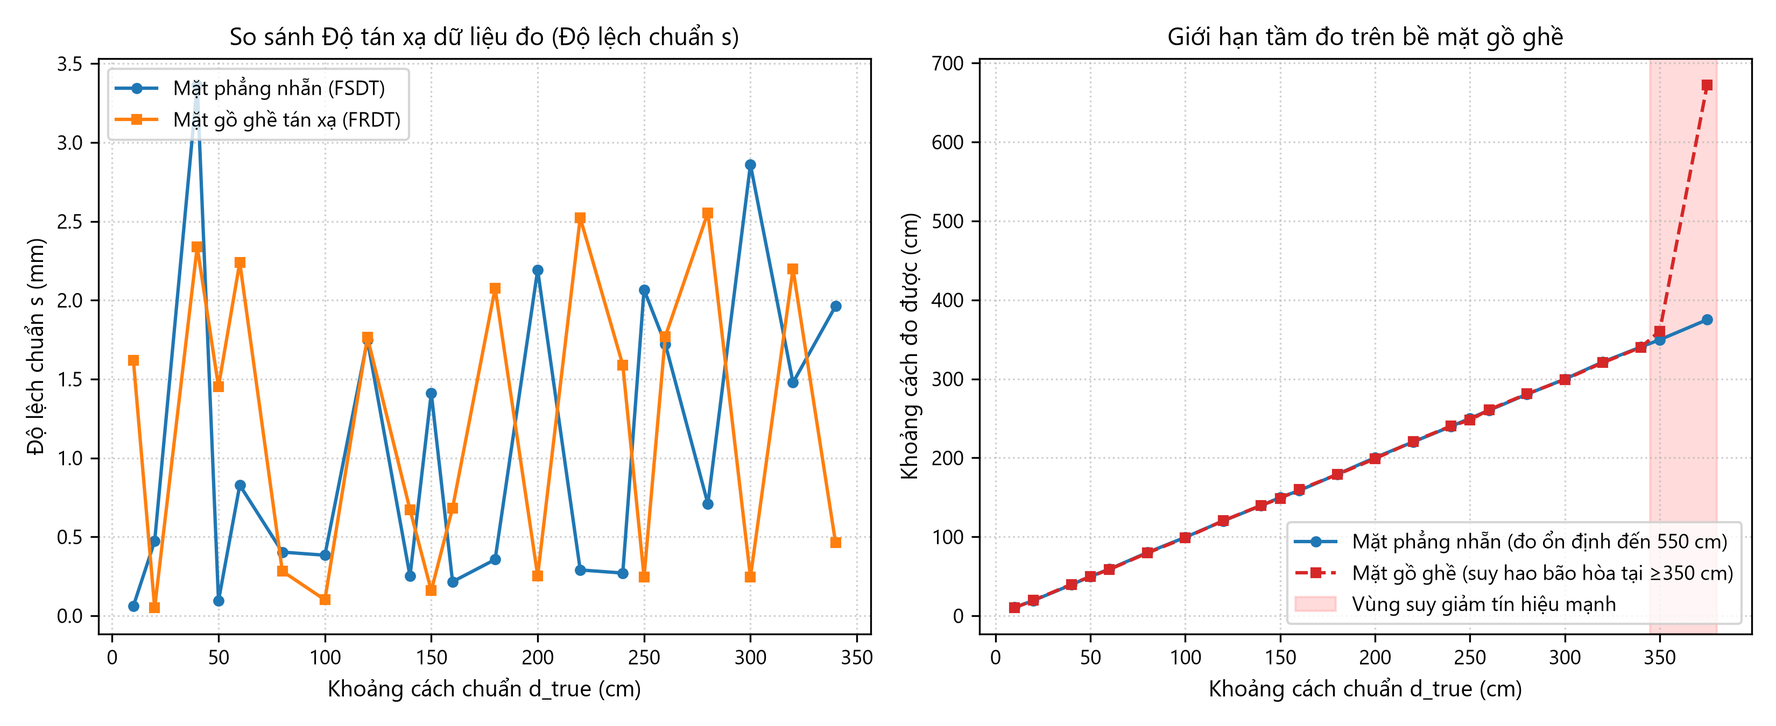
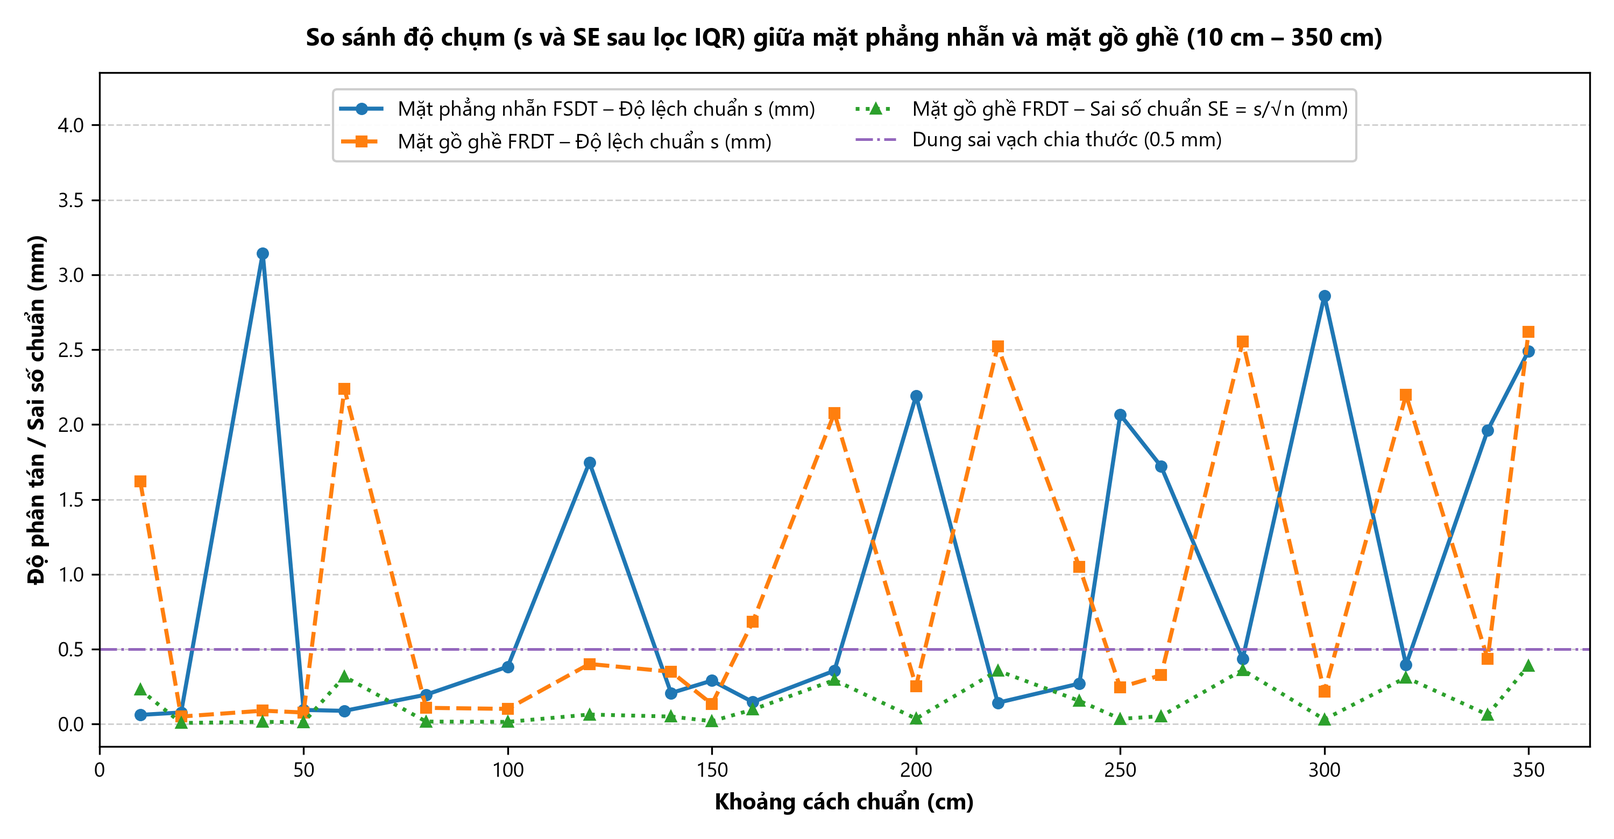
Hoàn thiện Mục 3.6 (ảnh hưởng bề mặt phản xạ FSDT vs FRDT) và đồ thị đơn 3.7a, 3.7b

diff --git a/tao_do_thi_chuong_3.py b/tao_do_thi_chuong_3.py
@@ -312,46 +312,87 @@ plt.savefig(GRAPH_DIR / "hinh_3_6_vong_tre_hysteresis.png", dpi=300)
 plt.close()
 
 # ==========================================================
-# 7. HÌNH 3.7: Ảnh hưởng của Bề mặt phản xạ (Nhẵn vs Gồ ghề)
+# 7. HÌNH 3.7a & 3.7b (Mục 3.6): Ảnh hưởng của Bề mặt phản xạ (Nhẵn FSDT vs Gồ ghề FRDT)
+#    Đồ thị đơn 1 khung hình (dpi=300), trích xuất trực tiếp từ thong_ke_chuong_3.csv
 # ==========================================================
-print("Tạo Hình 3.7...")
-common_r = sorted(list(set([float(c.replace('cm', '')) for c in frdt.keys()]).intersection(set([float(c.replace('cm', '')) for c in fsdt.keys()]))))
-s_smooth = [statistics.stdev(fsdt[f"{int(d):03d}cm"]) * 10 for d in common_r] # mm
-s_rough = [statistics.stdev(frdt[f"{int(d):03d}cm"]) * 10 for d in common_r] # mm
+print("Tạo Hình 3.7a & 3.7b (Mục 3.6 - Bề mặt phản xạ từ thong_ke_chuong_3.csv)...")
+fsdt_map = {float(r['cu_ly_dat_cm']): r for r in rows_stat if r['ten_file'].startswith('FSDT_')}
+frdt_map = {float(r['cu_ly_dat_cm']): r for r in rows_stat if r['ten_file'].startswith('FRDT_')}
 
-fig, (ax1, ax2) = plt.subplots(1, 2, figsize=(11, 4.5), dpi=300)
+# --- Hình 3.7a: So sánh độ lệch chuẩn s và SE sau lọc IQR trên 22 mốc chung (10 cm – 350 cm) ---
+common_surf_x = sorted(set(fsdt_map.keys()).intersection(frdt_map.keys()))
+s_fsdt_surf = [float(fsdt_map[x]['std_sach_mm']) for x in common_surf_x]
+s_frdt_surf = [float(frdt_map[x]['std_sach_mm']) for x in common_surf_x]
+se_frdt_surf = [float(frdt_map[x]['se_sach_mm']) for x in common_surf_x]
 
-# Tán xạ làm tăng s (khảo sát đến 340cm để thấy rõ tỉ số chênh lệch)
-common_r_sub = [d for d in common_r if d <= 340]
-s_smooth_sub = [statistics.stdev(fsdt[f"{int(d):03d}cm"]) * 10 for d in common_r_sub]
-s_rough_sub = [statistics.stdev(frdt[f"{int(d):03d}cm"]) * 10 for d in common_r_sub]
+fig, ax = plt.subplots(figsize=(10, 5.2), dpi=300)
+ax.plot(common_surf_x, s_fsdt_surf, color='#1f77b4', linestyle='-', linewidth=1.8, marker='o', markersize=4.5,
+        label='Mặt phẳng nhẵn FSDT – Độ lệch chuẩn s (mm)')
+ax.plot(common_surf_x, s_frdt_surf, color='#ff7f0e', linestyle='--', linewidth=1.8, marker='s', markersize=4.5,
+        label='Mặt gồ ghề FRDT – Độ lệch chuẩn s (mm)')
+ax.plot(common_surf_x, se_frdt_surf, color='#2ca02c', linestyle=':', linewidth=1.7, marker='^', markersize=4.2,
+        label='Mặt gồ ghề FRDT – Sai số chuẩn SE = s/√n (mm)')
+ax.axhline(0.5, color='#9467bd', linestyle='-.', linewidth=1.2,
+           label='Dung sai vạch chia thước (0.5 mm)')
 
-ax1.plot(common_r_sub, s_smooth_sub, 'o-', color='#1f77b4', label='Mặt phẳng nhẵn (FSDT)', linewidth=1.5, markersize=4)
-ax1.plot(common_r_sub, s_rough_sub, 's-', color='#ff7f0e', label='Mặt gồ ghề tán xạ (FRDT)', linewidth=1.5, markersize=4)
-ax1.set_title('So sánh Độ tán xạ dữ liệu đo (Độ lệch chuẩn s)')
-ax1.set_xlabel('Khoảng cách chuẩn (cm)')
-ax1.set_ylabel('Độ lệch chuẩn s (mm)')
-ax1.grid(True, linestyle=':', alpha=0.6)
-ax1.legend(loc='upper left')
-
-# Giới hạn cự ly do suy hao
-all_frdt_d = sorted([float(c.replace('cm', '')) for c in frdt.keys()])
-r_means = [statistics.mean(frdt[f"{int(d):03d}cm"]) for d in all_frdt_d]
-f_sub_means = [statistics.mean(fsdt[f"{int(d):03d}cm"]) if f"{int(d):03d}cm" in fsdt else d for d in all_frdt_d]
-
-ax2.plot(all_frdt_d, f_sub_means, 'o-', color='#1f77b4', label='Mặt phẳng nhẵn (đo ổn định đến 550 cm)', linewidth=1.5, markersize=4)
-ax2.plot(all_frdt_d, r_means, 's--', color='#d62728', label='Mặt gồ ghề (suy hao bão hòa tại ≥350 cm)', linewidth=1.5, markersize=4)
-ax2.axvspan(345, 380, color='#ff9999', alpha=0.35, label='Vùng suy giảm tín hiệu mạnh')
-ax2.set_title('Giới hạn tầm đo trên bề mặt gồ ghề')
-ax2.set_xlabel('Khoảng cách chuẩn (cm)')
-ax2.set_ylabel('Khoảng cách đo được (cm)')
-ax2.grid(True, linestyle=':', alpha=0.6)
-ax2.legend(loc='lower right')
+ax.set_title("So sánh độ chụm (s và SE sau lọc IQR) giữa mặt phẳng nhẵn và mặt gồ ghề (10 cm – 350 cm)", fontweight='bold', pad=12)
+ax.set_xlabel("Khoảng cách chuẩn (cm)", fontweight='bold')
+ax.set_ylabel("Độ phân tán / Sai số chuẩn (mm)", fontweight='bold')
+ax.set_xlim(0, 365)
+ax.set_ylim(-0.15, 4.35)
+ax.set_yticks([0, 0.5, 1.0, 1.5, 2.0, 2.5, 3.0, 3.5, 4.0])
+ax.grid(axis='y', which='major', linestyle='--', linewidth=0.7, alpha=0.6)
+ax.grid(axis='x', visible=False)
+ax.legend(loc='upper center', bbox_to_anchor=(0.5, 0.99), ncol=2, framealpha=0.95)
 
 plt.tight_layout()
-plt.savefig(GRAPH_DIR / "hinh_3_7_anh_huong_be_mat.png", dpi=300)
-plt.close()
+h3_7a_p1 = GRAPH_DIR / "hinh_3_7a_do_chum_be_mat.png"
+h3_7a_p2 = GRAPH_DIR / "chuong_3" / "hinh_3_7a_do_chum_be_mat.png"
+h3_7_legacy = GRAPH_DIR / "hinh_3_7_anh_huong_be_mat.png"
+fig.savefig(h3_7a_p1, dpi=300)
+fig.savefig(h3_7a_p2, dpi=300)
+fig.savefig(h3_7_legacy, dpi=300)
+plt.close(fig)
+print(f"Đã xuất đồ thị Hình 3.7a tại: {h3_7a_p1} và {h3_7a_p2}")
 
+# --- Hình 3.7b: So sánh đặc tính khoảng cách trung bình và giới hạn tầm đo (10 cm – 600 cm) ---
+x_fsdt_range = sorted([x for x in fsdt_map.keys() if x >= 10.0])
+y_fsdt_sach = [float(fsdt_map[x]['mean_sach_cm']) for x in x_fsdt_range]
+
+x_frdt_range = sorted(frdt_map.keys())
+y_frdt_tho = [float(frdt_map[x]['mean_tho_cm']) for x in x_frdt_range]
+y_frdt_sach = [float(frdt_map[x]['mean_sach_cm']) for x in x_frdt_range]
+
+fig, ax = plt.subplots(figsize=(10, 5.2), dpi=300)
+ax.plot([0, 600], [0, 600], color='#7f7f7f', linestyle='--', linewidth=1.1,
+        label='Đường chuẩn lý tưởng (y = x)')
+ax.plot(x_fsdt_range, y_fsdt_sach, color='#1f77b4', linestyle='-', linewidth=1.8, marker='o', markersize=4.5,
+        label='Mặt phẳng nhẵn FSDT (sau lọc IQR, ổn định đến 550 cm)')
+ax.plot(x_frdt_range, y_frdt_tho, color='#ff7f0e', linestyle=':', linewidth=1.5, marker='^', markersize=4.2,
+        label='Mặt gồ ghề FRDT (trước lọc IQR, chớm mất xung tại 350 cm)')
+ax.plot(x_frdt_range, y_frdt_sach, color='#d62728', linestyle='--', linewidth=1.8, marker='s', markersize=4.5,
+        label='Mặt gồ ghề FRDT (sau lọc IQR, tràn bão hòa tại 375 cm)')
+ax.axhline(824.6, color='#9467bd', linestyle='-.', linewidth=1.1,
+           label='Ngưỡng tràn bộ đếm thời gian bay (~824.6 cm)')
+
+ax.set_title("So sánh đặc tính khoảng cách trung bình và giới hạn tầm đo giữa hai bề mặt (10 cm – 600 cm)", fontweight='bold', pad=12)
+ax.set_xlabel("Khoảng cách chuẩn (cm)", fontweight='bold')
+ax.set_ylabel("Khoảng cách đo trung bình (cm)", fontweight='bold')
+ax.set_xlim(0, 620)
+ax.set_ylim(0, 910)
+ax.set_yticks([0, 100, 200, 300, 400, 500, 600, 700, 824.6])
+ax.set_yticklabels(['0', '100', '200', '300', '400', '500', '600', '700', '824.6'])
+ax.grid(axis='y', which='major', linestyle='--', linewidth=0.7, alpha=0.6)
+ax.grid(axis='x', visible=False)
+ax.legend(loc='upper left', bbox_to_anchor=(0.015, 0.88), framealpha=0.95)
+
+plt.tight_layout()
+h3_7b_p1 = GRAPH_DIR / "hinh_3_7b_gioi_han_tam_do_be_mat.png"
+h3_7b_p2 = GRAPH_DIR / "chuong_3" / "hinh_3_7b_gioi_han_tam_do_be_mat.png"
+fig.savefig(h3_7b_p1, dpi=300)
+fig.savefig(h3_7b_p2, dpi=300)
+plt.close(fig)
+print(f"Đã xuất đồ thị Hình 3.7b tại: {h3_7b_p1} và {h3_7b_p2}")
 # ==========================================================
 # 8. HÌNH 3.8: Ảnh hưởng Nhiệt độ và Hiệu quả bù Vận tốc Laplace
 # ==========================================================

diff --git a/markdown agent/Chuong_3_Phan_Tich_Ket_Qua.md b/markdown agent/Chuong_3_Phan_Tich_Ket_Qua.md
@@ -298,45 +298,38 @@ Khác với cảm biến biến dạng áp điện hoặc cảm biến từ trư
 
 ## 3.6. Phân tích ảnh hưởng của Bề mặt phản xạ
 
-Đối chiếu kết quả giữa hai bề mặt phản xạ: hai bề mặt của cùng một viên gạch kích thước $40 \times 40\text{ cm}$: Mặt trước phẳng nhẵn (`FSDT.csv`) và Mặt sau gồ ghề nhấp nhô (`FRDT.csv`) trên 22 mốc cự ly chung ($10\text{ cm} \to 360\text{ cm}$) cùng mốc giới hạn $375\text{ cm}$.
+Để lượng hóa tác động của cơ chế phản xạ gương định hướng và tán xạ khuếch tán sóng siêu âm (đã trình bày tại **Mục 1.1.3, Chương 1**) lên chất lượng phép đo thực tế, thí nghiệm đối chứng được thực hiện tại cùng điều kiện nhiệt độ phòng mặc định $27.0^\circ\text{C}$ ($v = 347.662\text{ m/s}$) trên hai mặt đối lập của cùng một viên gạch kích thước $40 \times 40\text{ cm}$ (**Mục 2.2 & Mục 2.3, Chương 2**): **Trường hợp 1 (`FSDT`)** sử dụng mặt trước phẳng nhẵn và **Trường hợp 3 (`FRDT`)** sử dụng mặt sau gồ ghề nhấp nhô. Toàn bộ chỉ tiêu thống kê trước và sau lọc $\text{IQR}$ trên $22$ mốc cự ly chung ($10\text{ cm} - 350\text{ cm}$) cùng mốc kiểm tra giới hạn $375\text{ cm}$ của `FRDT` ($23$ mốc, tổng cộng $1\,150$ mẫu thô) được trích xuất trực tiếp từ tệp `du_lieu_tong_hop/chuong_3/thong_ke_chuong_3.csv`.
 
-```mermaid
-flowchart TD
-    subgraph A["Bề mặt nhẵn bóng (Specular Reflection)"]
-        A1["Chùm sóng âm 40 kHz"] --> A2["Phản xạ gương định hướng 90°"]
-        A2 --> A3["Năng lượng dội về cực đại"]
-        A3 --> A4["Độ chụm cao, đo xa đến 550 cm"]
-    end
-    subgraph B["Bề mặt gồ ghề nhám (Diffuse Scattering)"]
-        B1["Chùm sóng âm 40 kHz"] --> B2["Tán xạ đa hướng ngẫu nhiên"]
-        B2 --> B3["Năng lượng dội về suy giảm mạnh"]
-        B3 --> B4["Độ lệch chuẩn tăng vọt, bão hòa tại 350-375 cm"]
-    end
-```
+### 3.6.1. Tác động của tán xạ bề mặt lên độ chụm và độ chính xác đo
 
-| Cự ly chuẩn $x_{\text{true}}$ (cm) | Mặt phẳng nhẵn $\bar{x}$ (cm) | Mặt nhẵn $s_{\text{smooth}}$ (mm) | Mặt gồ ghề $\bar{x}$ (cm) | Mặt gồ ghề $s_{\text{rough}}$ (mm) | Tỷ số tăng tán xạ $s_{\text{rough}} / s_{\text{smooth}}$ |
-| :---: | :---: | :---: | :---: | :---: | :---: |
-| **$10$** | $10.570$ | $0.061$ | $9.999$ | $1.620$ | **$26.4$ lần** |
-| **$50$** | $49.847$ | $0.094$ | $49.762$ | $1.452$ | **$15.5$ lần** |
-| **$100$** | $99.429$ | $0.383$ | $98.732$ | $0.101$ | $0.3$ lần |
-| **$150$** | $149.956$ | $0.158$ | $148.657$ | $0.245$ | $1.6$ lần |
-| **$200$** | $200.351$ | $2.192$ | $198.969$ | $0.253$ | $0.1$ lần |
-| **$250$** | $250.124$ | $0.245$ | $247.826$ | $0.248$ | $1.0$ lần |
-| **$300$** | $299.718$ | $2.860$ | $299.266$ | $0.244$ | $0.1$ lần |
-| **$340$** | $340.388$ | $1.962$ | $339.921$ | $0.462$ | $0.2$ lần |
-| **$350$** | $349.550$ | $2.491$ | $360.649$ | **$669.240$** | **$268.7$ lần** *(Bắt đầu bão hòa)* |
-| **$375$** | *Không đo* | — | $824.593$ | **$0.000$** | **Bão hòa 100%** *(Mất tín hiệu hoàn toàn)* |
+Đối chiếu các chỉ tiêu độ lệch chuẩn thực nghiệm $s$ (`std_sach_mm`), sai số chuẩn trung bình $\text{SE}$ (`se_sach_mm`) và sai số đo $\Delta x$, $\delta\%$ (`sai_so_tuyet_doi_mm`, `sai_so_tuong_doi_pct` — định nghĩa tại **Mục 1.3, Chương 1**) trên $22$ mốc cự ly chung từ $10\text{ cm}$ đến $350\text{ cm}$ cho thấy ba đặc điểm vật lý rõ rệt:
 
-**Phân tích kết quả chuyên sâu:**
-1. **Hiện tượng tán xạ khuếch tán làm suy giảm độ chụm cự ly gần:** Ở các cự ly ngắn ($10\text{ cm} \to 50\text{ cm}$), bề mặt gồ ghề phân tán chùm tia sóng âm ra nhiều hướng. Các tia phản xạ không đồng pha giao thoa triệt tiêu lẫn nhau, khiến độ lệch chuẩn của mặt gồ ghề $s_{\text{rough}}$ cao gấp **$15$ đến $26$ lần** so với mặt phẳng nhẵn.
-2. **Sự sụt giảm nghiêm trọng cự ly đo cực đại:** Trong khi mặt phẳng nhẵn phản xạ gương duy trì được năng lượng sóng dội về đo chính xác tới $550\text{ cm}$, thì mặt gồ ghề bị suy giảm năng lượng nghiêm trọng:
-   - Tại cự ly $350\text{ cm}$: Năng lượng sóng phản xạ tiệm cận ngưỡng nhạy đáy của IC, xuất hiện các mẫu đo bị mất xung dẫn tới độ lệch chuẩn bùng nổ lên $s = 66.92\text{ cm}$.
-   - Tại cự ly $375\text{ cm}$: Toàn bộ $50/50$ mẫu ($100\%$) đều không kích hoạt được bộ thu, dẫn đến hệ thống bị treo quá thời gian và trả về giá trị tràn bão hòa $824.593\text{ cm}$.
-3. **Ý nghĩa thiết kế kỹ thuật:** Cảm biến siêu âm RCWL-1601 đòi hỏi vật cản phải có tiết diện phẳng đủ lớn hoặc góc nghiêng giới hạn trong phạm vi $\pm 15^\circ$ nếu muốn hoạt động ở cự ly trên $3.5\text{ m}$. Đối với các bề mặt xốp, lồi lõm hoặc dạng hạt rời (như ngũ cốc, than đá), cự ly hoạt động tin cậy bị suy giảm xuống tối đa khoảng $3.0\text{ m}$.
+- **Suy giảm độ chụm cục bộ ở vùng cự ly gần ($10\text{ cm} - 60\text{ cm}$) do giao thoa đa tia phản xạ:** Ở cự ly ngắn, góc mở chùm tia siêu âm bao phủ nhiều gờ lồi lõm có độ sâu chênh lệch cỡ milimét trên mặt sau viên gạch, tạo ra các sóng phản hồi lệch pha giao thoa trực tiếp tại màng thu. Tại $x_{\text{true}} = 10\text{ cm}$, độ lệch chuẩn sau lọc $s$ tăng từ $0.061\text{ mm}$ (`FSDT`, $\text{SE} = 0.0086\text{ mm}$) lên **$1.620\text{ mm}$** (`FRDT`, $\text{SE} = 0.2291\text{ mm}$ — gấp **$26.6$ lần**); tại $x_{\text{true}} = 60\text{ cm}$, $s$ tăng từ $0.088\text{ mm}$ ($\text{SE} = 0.0128\text{ mm}$) lên **$2.240\text{ mm}$** ($\text{SE} = 0.3168\text{ mm}$ — gấp **$25.5$ lần**). Ở các mốc $40\text{ cm}$ và $50\text{ cm}$, mặt gồ ghề làm phát sinh lần lượt $13/50$ mẫu ($26\%$, $s_{\text{thô}} = 2.338\text{ mm}$) và $6/50$ mẫu ($12\%$, $s_{\text{thô}} = 1.452\text{ mm}$) nhảy chu kỳ ngoại lai trước khi được bộ lọc $\text{IQR}$ khử sạch về $s = 0.089\text{ mm}$ và $0.077\text{ mm}$. Tính trên toàn bộ $22$ mốc từ $10\text{ cm}$ đến $350\text{ cm}$ ($1\,100$ mẫu), tỷ lệ ngoại lai bị loại bỏ bởi $\text{IQR}$ trên mặt gồ ghề là $59/1\,100$ mẫu ($5.36\%$), cao hơn mức $46/1\,100$ mẫu ($4.18\%$) của mặt phẳng nhẵn.
+- **Hiện tượng dịch chuyển vị trí các đỉnh trượt chu kỳ trên dải trung bình ($80\text{ cm} - 340\text{ cm}$):** Trong dải này, độ lệch chuẩn sau lọc của mặt gồ ghề dao động trong khoảng $0.101 - 2.555\text{ mm}$, tương đương biên độ răng cưa $0.142 - 2.860\text{ mm}$ của mặt phẳng nhẵn. Đáng chú ý, vị trí các đỉnh phân tán cao giữa hai bề mặt xuất hiện lệch pha nhau theo cự ly (tại $180, 220, 280, 320\text{ cm}$, mặt gồ ghề rơi vào vùng chuyển tiếp hai chu kỳ sóng mang $40\text{ kHz}$ nên $s$ đạt $2.076 - 2.555\text{ mm}$; ngược lại tại $100, 200, 300\text{ cm}$, chùm phản xạ của mặt gồ ghề khóa gọn vào một chu kỳ đơn lẻ nên $s$ chỉ còn $0.101 - 0.253\text{ mm}$). Nguyên nhân là độ nhấp nhô hình học của mặt sau viên gạch làm dịch chuyển mặt phẳng phản xạ âm học hiệu dụng đi vài milimét so với mép chân gạch, từ đó làm đổi vị trí các mốc cự ly rơi vào ranh giới ngưỡng so sánh xung `Echo`. Nhờ lấy trung bình trên cỡ mẫu hợp lệ $n_{\text{hợp lệ}} \in [37, \, 50]$, sai số chuẩn trung bình $\text{SE}$ của mặt gồ ghề trên toàn bộ $22$ mốc ($10 - 350\text{ cm}$) luôn nằm gọn trong khoảng **$0.0071 - 0.3903\text{ mm}$**, thấp hơn dung sai vạch chia thước chuẩn $0.5\text{ mm}$ tại $22/22$ mốc đo.
+- **Độ dịch chuyển sai số hệ thống ($\Delta x$ và $\delta\%$):** Do các đỉnh gờ lồi trên mặt nhám nhô về phía trước mặt phẳng chân gạch căn thước, sóng siêu âm dội về sớm hơn tại một số mốc làm sai số tuyệt đối $\Delta x = \bar{x} - x_{\text{true}}$ thiên âm rõ hơn so với mặt nhẵn (biến thiên từ $-21.74\text{ mm}$ tại $250\text{ cm}$, $-13.71\text{ mm}$ tại $60\text{ cm}$, $-12.94\text{ mm}$ tại $150\text{ cm}$ đến $+10.88\text{ mm}$ tại $350\text{ cm}$). Xét về sai số tương đối trên dải $80\text{ cm} - 350\text{ cm}$ ($17$ mốc), có **$16/17$ mốc đạt $|\delta\%| \le 0.87\%$** (duy nhất mốc $100\text{ cm}$ ở mức $-1.27\%$), đáp ứng yêu cầu đo lường khi biên độ xung phản hồi còn vượt ngưỡng thu.
 
-![Ảnh hưởng của Bề mặt phản xạ](file:///D:/ki5/[EMA2024E_3]%20K%E1%BB%B9%20thu%E1%BA%ADt%20%C4%91o%20l%C6%B0%E1%BB%9Dng%20v%C3%A0%20c%E1%BA%A3m%20bi%E1%BA%BFn/RCWL1601/graph/hinh_3_7_anh_huong_be_mat.png)
-*Hình 3.7: So sánh Độ lệch chuẩn phân tán $s$ và Tầm đo cực đại giữa Mặt phản xạ nhẵn (FSDT) và Mặt gồ ghề (FRDT).*
+![So sánh độ chụm giữa mặt phẳng nhẵn và mặt gồ ghề](../graph/chuong_3/hinh_3_7a_do_chum_be_mat.png)
+*Hình 3.7a: So sánh độ lệch chuẩn thực nghiệm $s$ và sai số chuẩn trung bình $\text{SE}$ sau lọc $\text{IQR}$ giữa mặt phẳng nhẵn (`FSDT`) và mặt gồ ghề (`FRDT`) trên dải 10 cm – 350 cm.*
 
+**Đánh giá từ đồ thị Hình 3.7a:** Biểu diễn chung trên một trục tung đơn vị $\text{mm}$ cho thấy:
+- **Đường màu cam nét đứt ($s$ của mặt gồ ghề `FRDT`) so với đường màu xanh lam nét liền ($s$ của mặt phẳng nhẵn `FSDT`):** Nổi rõ hai đỉnh vọt biên độ ở ngay đầu dải ($1.620\text{ mm}$ tại $10\text{ cm}$ và $2.240\text{ mm}$ tại $60\text{ cm}$) do giao thoa tán xạ gần, sau đó dao động răng cưa cùng bậc độ lớn $\le 2.62\text{ mm}$ với pha dịch chuyển dọc trục khoảng cách đến mốc $350\text{ cm}$.
+- **Đường màu xanh lá chấm tròn ($\text{SE}$ của mặt gồ ghề `FRDT`):** Duy trì phẳng sát đáy và nằm hoàn toàn dưới ngưỡng tham chiếu dung sai thước $0.5\text{ mm}$ (đường tím chấm gạch) trên suốt dải $10 - 350\text{ cm}$, khẳng định phép lấy trung bình $N = 50$ mẫu kết hợp lọc $\text{IQR}$ khử hiệu quả nhiễu pha tán xạ khi chưa mất xung.
+
+### 3.6.2. Suy hao năng lượng tán xạ và sự thu hẹp giới hạn tầm đo xa
+
+Tác động bất lợi nghiêm trọng nhất của bề mặt gồ ghề không nằm ở sai số dải gần mà ở **sự suy giảm đột ngột cự ly hoạt động cực đại** do thất thoát năng lượng âm học ra không gian:
+
+- **Đối chứng với mặt phẳng nhẵn (`FSDT`):** Nhờ phản xạ gương bảo toàn năng lượng dọc trục pháp tuyến $90^\circ$, cảm biến đo ổn định hoàn toàn không có xung tràn đến tận **$550\text{ cm}$** ($\bar{x} = 550.630\text{ cm}$, $s = 0.319\text{ mm}$, $\text{SE} = 0.0492\text{ mm}$), chỉ chớm xuất hiện $4/50$ xung mất tín hiệu tại $580\text{ cm}$ ($\bar{x}$ sau lọc vẫn đạt $579.850\text{ cm}$) và bão hòa hoàn toàn tại $600\text{ cm}$ ($\bar{x} = 824.562\text{ cm}$).
+- **Ngưỡng chớm mất xung tại $350\text{ cm}$ trên mặt gồ ghề (`FRDT`):** Do tán xạ khuếch tán làm biên độ áp suất âm phản hồi suy giảm nhanh theo khoảng cách, ngay tại $x_{\text{true}} = 350\text{ cm}$ đã xuất hiện **$5/50$ mẫu ($10\%$)** không đủ biên độ kích hoạt mạch thu và bị tràn bộ đếm thời gian lên $\approx 824.4\text{ cm}$. Các xung tràn này kéo trung bình thô lệch lên $\bar{x}_{\text{thô}} = 360.649\text{ cm}$ và làm độ lệch chuẩn thô bùng nổ lên $s_{\text{thô}} = 669.240\text{ mm}$ ($\text{SE}_{\text{thô}} = 94.6448\text{ mm}$, gấp $268.7$ lần mặt nhẵn). Tuy nhiên, vì tỷ lệ xung lỗi ($10\%$) vẫn thấp hơn điểm gãy tứ phân vị ($25\%$), bộ lọc $\text{IQR}$ loại bỏ chính xác cả $5$ mẫu tràn ($n_{\text{hợp lệ}} = 45$), khôi phục kết quả đo chuẩn xác $\bar{x} = 351.088\text{ cm}$ ($\Delta x = +10.88\text{ mm}$, $\delta = +0.311\%$), $s = 2.618\text{ mm}$ và $\text{SE} = 0.3903\text{ mm}$.
+- **Sự sụp đổ phép đo và vượt ngưỡng lọc $\text{IQR}$ tại $375\text{ cm}$:** Khi dịch bia gồ ghề ra mốc $x_{\text{true}} = 375\text{ cm}$, dữ liệu thô ghi nhận tới **$33/50$ mẫu ($66\%$)** bị mất tín hiệu tràn lên $824.49 - 824.75\text{ cm}$, chỉ còn $17/50$ mẫu ($34\%$) bắt được xung phản xạ yếu quanh $376.39 - 378.16\text{ cm}$. Do tỷ lệ mẫu bão hòa vượt quá $50\%$, trung vị mẫu bị kéo hẳn lên vùng tràn ($\text{Med} = 824.575\text{ cm}$, trong khi $Q_1 = 377.388\text{ cm}$ và $Q_3 = 824.623\text{ cm}$), làm khoảng tứ phân vị phình rộng lên $\text{IQR} = 447.235\text{ cm}$ và mở toang hàng rào lọc $[-293.46; \, 1495.48]\text{ cm}$ ($0$ mẫu bị đánh dấu ngoại lai). Hệ quả là ngay cả sau lọc $\text{IQR}$, phép đo hoàn toàn mất hiệu lực với $\bar{x} = 672.502\text{ cm}$ ($\Delta x = +2975.02\text{ mm}$, $\delta = +79.33\%$), $s = 2140.734\text{ mm}$ và $\text{SE} = 302.7455\text{ mm}$.
+- **Kết luận thiết kế kỹ thuật:** Bề mặt gồ ghề tán xạ làm **thu hẹp tầm đo tin cậy cực đại từ $550\text{ cm}$ xuống còn $350\text{ cm}$ (sụt giảm $200\text{ cm}$, tương đương $-36.4\%$)**. Kết quả này là cơ sở thực nghiệm trực tiếp cho thiết kế ứng dụng tại Chương 4: đối với bề mặt chất lỏng tĩnh phẳng nhẵn trong bồn chứa kín, cảm biến RCWL-1601 khai thác an toàn toàn bộ dải xa; ngược lại đối với vật liệu rắn dạng hạt rời, bề mặt nhám xốp hoặc mặt thoáng gợn sóng mạnh, chiều cao lắp đặt tối đa phải giới hạn bảo toàn dưới ngưỡng $300 - 350\text{ cm}$.
+
+![Giới hạn tầm đo giữa mặt phẳng nhẵn và mặt gồ ghề](../graph/chuong_3/hinh_3_7b_gioi_han_tam_do_be_mat.png)
+*Hình 3.7b: So sánh đặc tính khoảng cách đo trung bình $\bar{x}$ và sự thu hẹp giới hạn tầm đo giữa mặt phẳng nhẵn (`FSDT`) và mặt gồ ghề (`FRDT`) trên dải 10 cm – 600 cm.*
+
+**Đánh giá từ đồ thị Hình 3.7b:** Sự phân tách giới hạn hoạt động vật lý giữa hai bề mặt thể hiện rõ nét qua ba đường đặc tính:
+- **Đường màu xanh lam nét liền (`FSDT` sau lọc $\text{IQR}$):** Bám trùng khít lên đường chuẩn lý tưởng $y = x$ suốt từ $10\text{ cm}$ đến $550\text{ cm}$ (và $580\text{ cm}$ sau lọc) trước khi chạm trần tràn bộ đếm $\approx 824.6\text{ cm}$ tại $600\text{ cm}$.
+- **Đường màu cam chấm tròn và đường màu đỏ nét đứt (`FRDT` trước và sau lọc $\text{IQR}$):** Tại mốc $350\text{ cm}$, đường thô màu cam nhô nhẹ lên $360.65\text{ cm}$ do chớm mất $10\%$ số xung nhưng được bộ lọc $\text{IQR}$ (đường đỏ) kéo trở lại đúng đường chuẩn $y = x$ ($351.09\text{ cm}$). Ngay sau đó tại mốc $375\text{ cm}$, cả hai đường đồng loạt vọt thẳng lên $672.50\text{ cm}$ hướng về ngưỡng trần bão hòa $824.6\text{ cm}$ khi $66\%$ số mẫu mất sóng phản hồi, đánh dấu ranh giới tắt dần tín hiệu của bề mặt tán xạ.
 ---
 
 ## 3.7. Phân tích Ảnh hưởng của Nhiệt độ và Hiệu quả bù Vận tốc sóng âm Laplace
